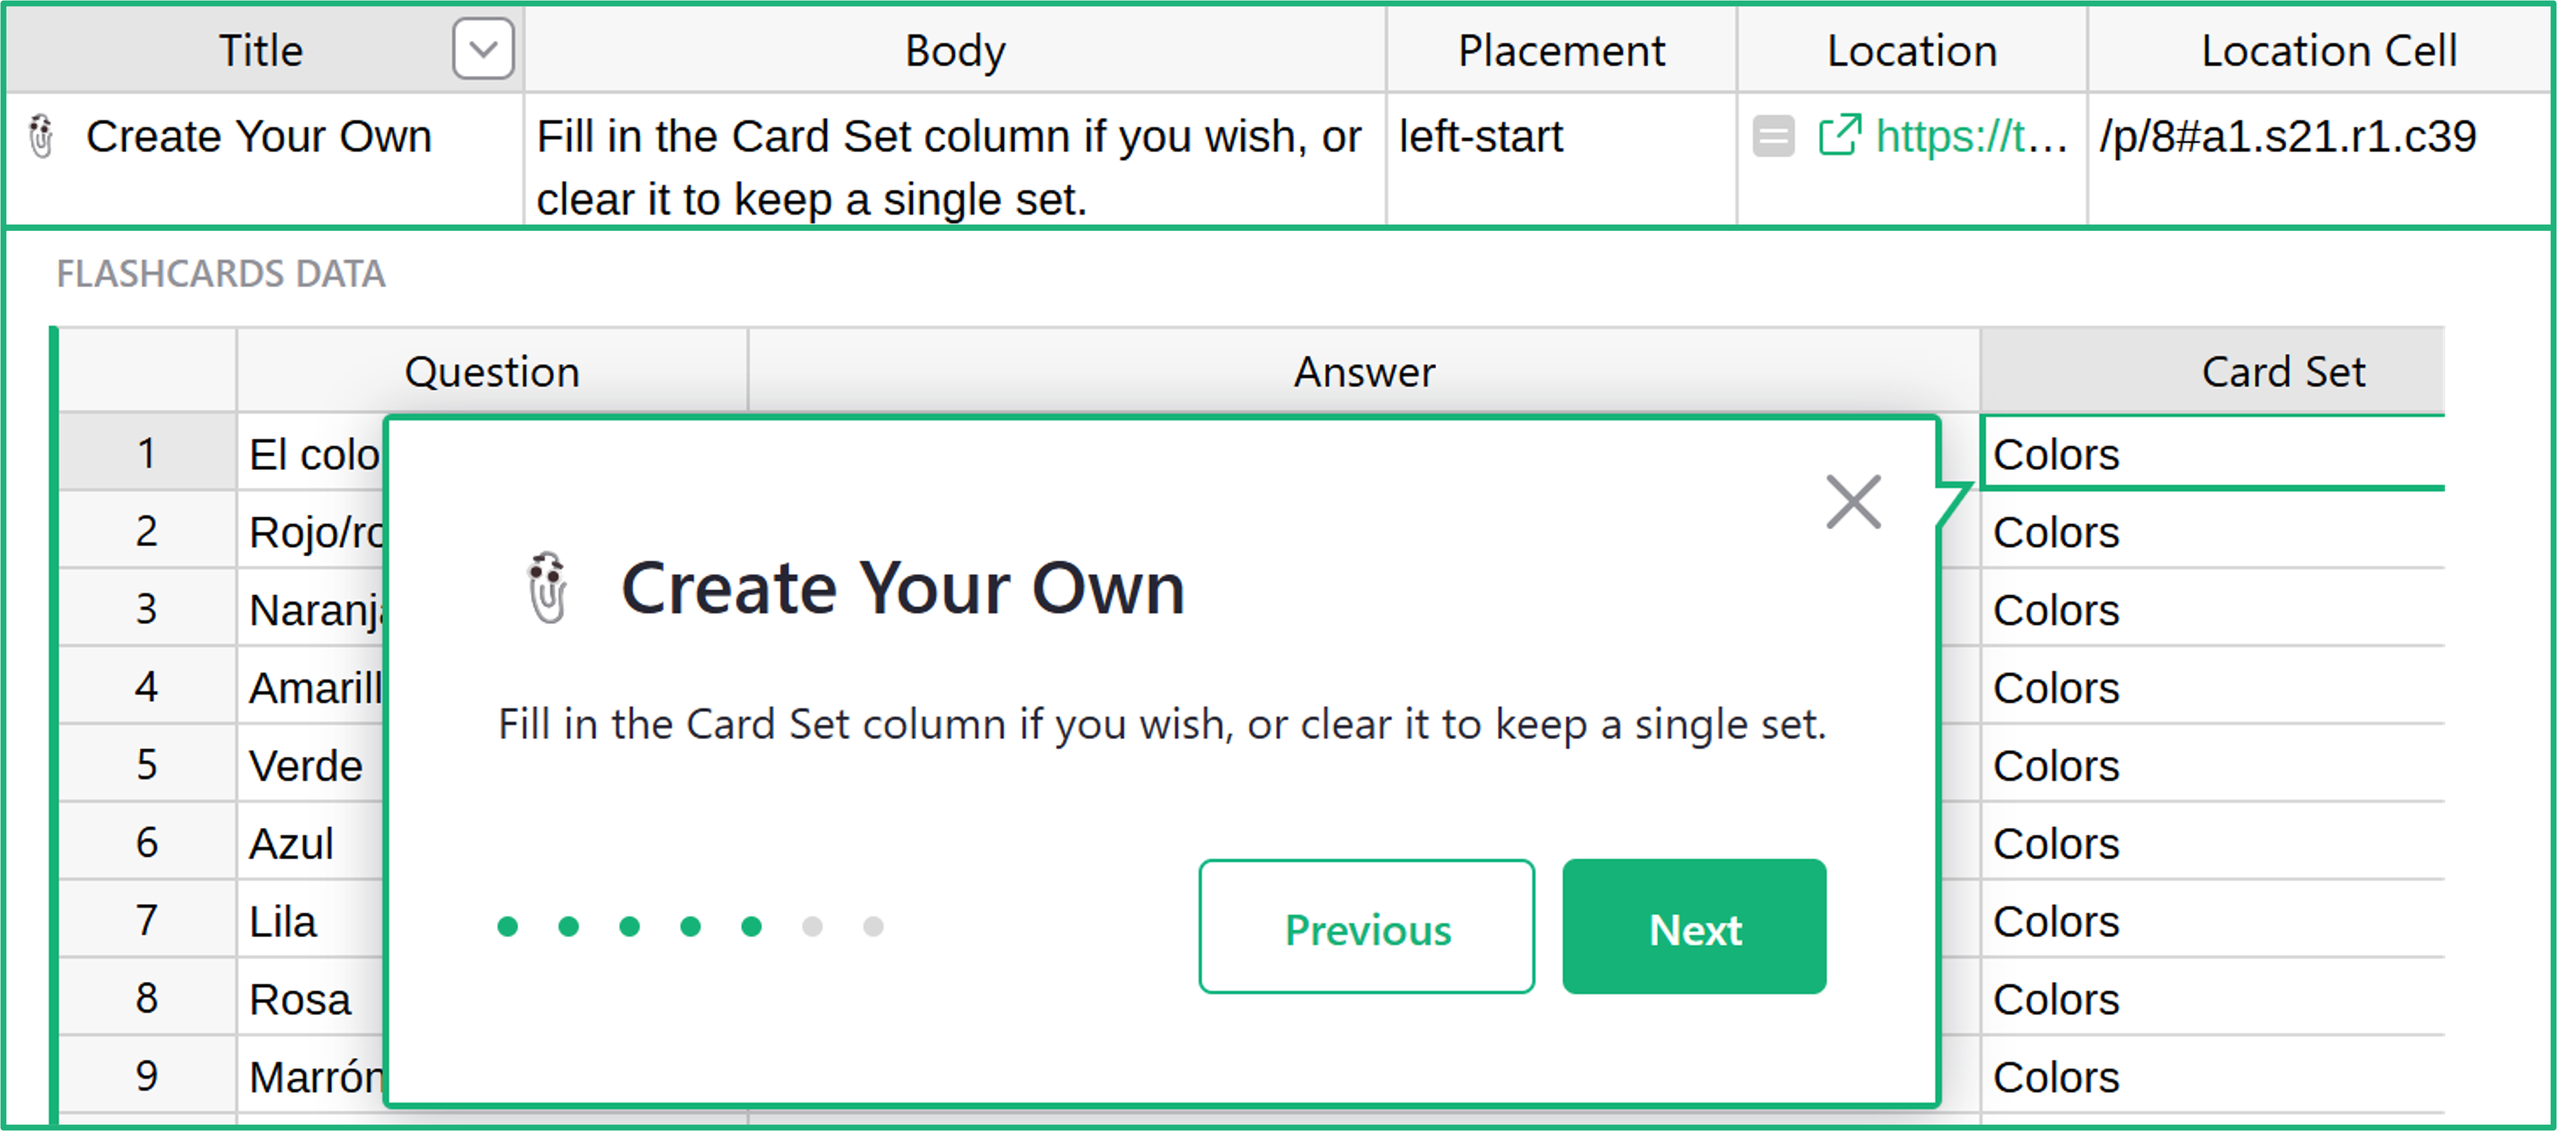
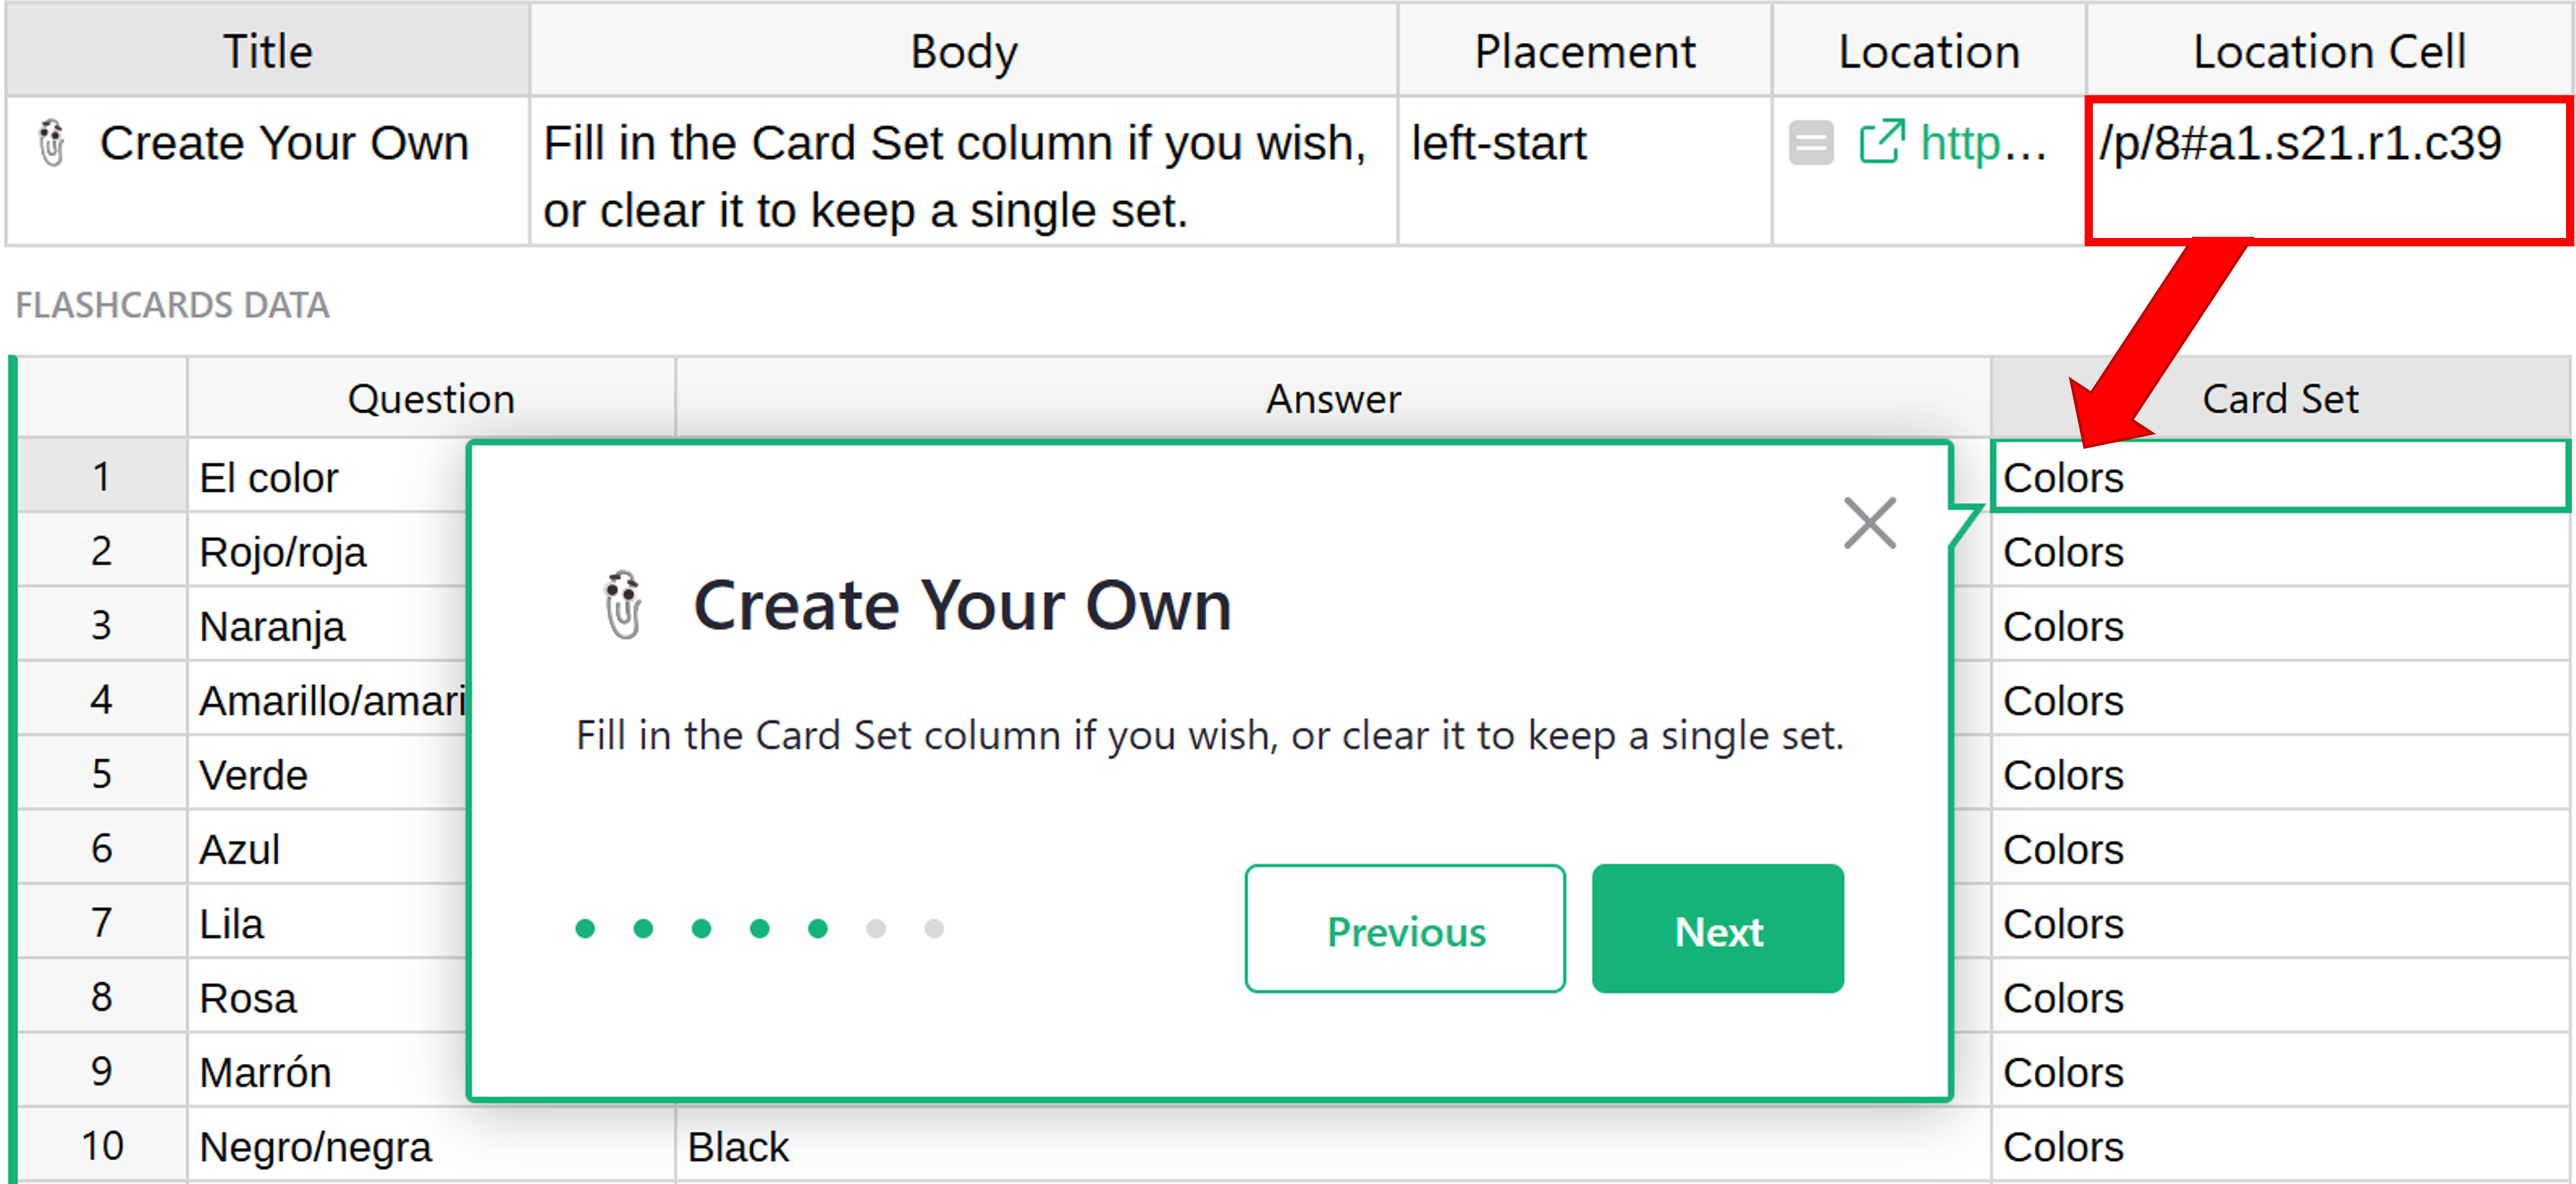
Updating per Nick's comments

Changed region(s): [[0.0, 0.0, 1.0, 1.0]]

diff --git a/help/en/docs/document-tours.md b/help/en/docs/document-tours.md
@@ -1,10 +1,12 @@
 ---
-title: Creating document tours
+title: Document tours
 ---
 
 ## Creating document tours in Grist
 
-Document tours in Grist can provide a step-by-step guide to help users navigate and understand how to use your document. While not a built-in feature, you can add document tours to any Grist document by creating a specially configured table named `GristDocTour`.
+![doc-tour-gif](images/document-tours/doc-tour.gif)
+
+Document tours are a beta feature in Grist that provide a step-by-step guide to help users navigate and understand how to use your document. You can add document tours to any Grist document by creating a specially configured table named `GristDocTour`.
 
 ### What is a document tour?
 
@@ -12,27 +14,30 @@ A document tour displays tooltips on specific pages or cells in your document, h
 
 ## How to create a document tour
 
-### **Step One:** Add the `GristDocTour` table
+### Step One: Add the `GristDocTour` table
 
 Create a new table in your document by clicking the green 'Add New' button then 'Add Empty Table'. Name the new table `GristDocTour`.
 
 <span class="screenshot-large">*![add-doc-tour-table](images/document-tours/add-doc-tour-table.png)*</span>
 
-### **Step Two:** Add the following columns to the `GristDocTour` table
+### Step Two: Add the following columns to the `GristDocTour` table
 
 1. **Title:** Text column for the tooltip header.
 2. **Body:** Text column for the tooltip content.
-3. **Placement:** Text column indicating tooltip position relative to the target (e.g., top, right).  [https://popper.js.org/](https://popper.js.org/){:target="\_blank"} has an interactive tool that shows how this works.
-- **Location:** Formula column with the formula `SELF_HYPERLINK() + $Location_Cell`.
+3. **Placement:** Text column indicating tooltip position relative to the target (e.g., top, right).  [https://floating-ui.com/](https://floating-ui.com/){:target="\_blank"} has an interactive tool that shows how this works.
+4. **Location:** Formula column with the formula `SELF_HYPERLINK() + $Location_Cell`.
 <span class="screenshot-large">*![location-formula](images/document-tours/location-formula.png)*</span>
-- **Location Cell:** Text column containing the [anchor link](#step-three-add-your-anchor-links) of the target cell (e.g., /p/8#a1.s21.r1.c7).
+5. **Location Cell:** Text column containing the [anchor link](#step-three-add-your-anchor-links) of the target cell (e.g., `/p/8#a1.s21.r1.c7`).
 <span class="screenshot-large">*![location-cell](images/document-tours/location-cell.png)*</span>
-- **Link URL (optional):** Text column for an additional link in the tooltip.
+6. **Link URL (optional):** Text column for an additional link in the tooltip.
 - **Link Text (optional):** Text column for the display text of the link.
 - **Link Icon (optional):** Text column specifying an icon to display before the link. Available icons are listed [here](https://github.com/gristlabs/grist-core/blob/main/app/client/ui2018/IconList.ts).
 <span class="screenshot-large">*![optional-columns](images/document-tours/optional-columns.png)*</span>
 
-### **Step Three:** Add your anchor links
+!!! note "Where did my `GristDocTour` table go?"
+    The `GristDocTour` table is hidden by default to keep the focus on your document's actual data. Since it only controls the display of tooltips, it’s treated more like metadata. You can always access it under [Raw Data](raw-data.md).
+
+### Step Three: Add your anchor links
 
 Your document tour can point to specific cells and pages using anchor links.
 
@@ -60,16 +65,13 @@ To place the document tour popup on a specific page, you can simply copy the end
 
 <span class="screenshot-large">*![anchor-link-page](images/document-tours/anchor-link-page.png)*</span>
 
-!!! note "Navigating back to the `GristDocTour` table"
-    If you click away from your table, perhaps to obtain an anchor link, it is always accessible under [Raw Data](raw-data.md).
-
-### **Step Four:** Reviewing your document tour
+### Step Four: Reviewing your document tour
 
 When initially creating your document tour, it is useful to see the popups and quickly make any changes. In a single window, that requires a lot of clicking back and forth. Open your document in two browser windows. In one window, pull up the `GristDocTour` table under [Raw Data](raw-data.md). In the other window, view your document tour on demand by clicking 'Tour of this Document' at the bottom of the left-hand navigation panel.
 
 <span class="screenshot-large">*![reviewing-doc-tour](images/document-tours/reviewing-doc-tour.png)*</span>
 
-### **Step Five:** Sharing your document tour
+### Step Five: Sharing your document tour
 
 To share your document tour, simply share your document. The document tour will start automatically the first time a user accesses the document. After that, they can access the tour at anytime by clicking 'Tour of this Document' at the bottom of the left-hand navigation panel.
 
